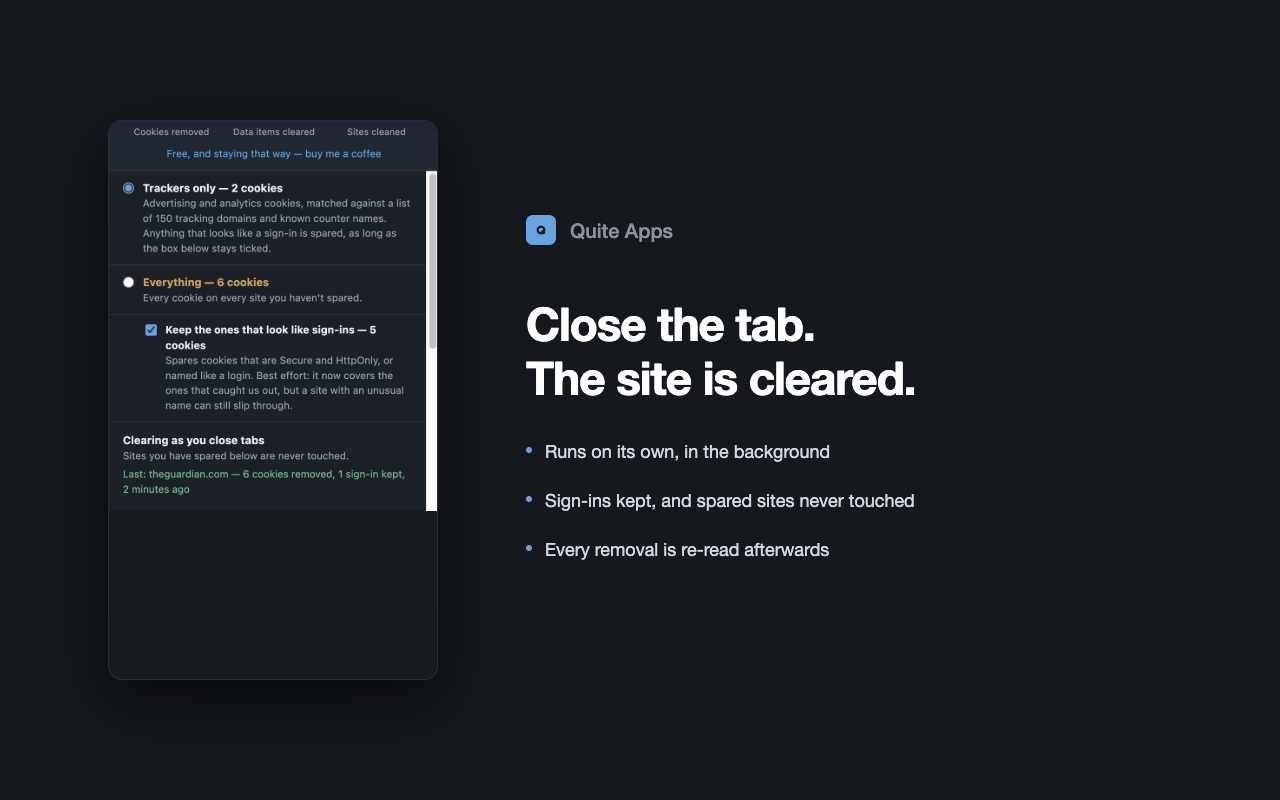
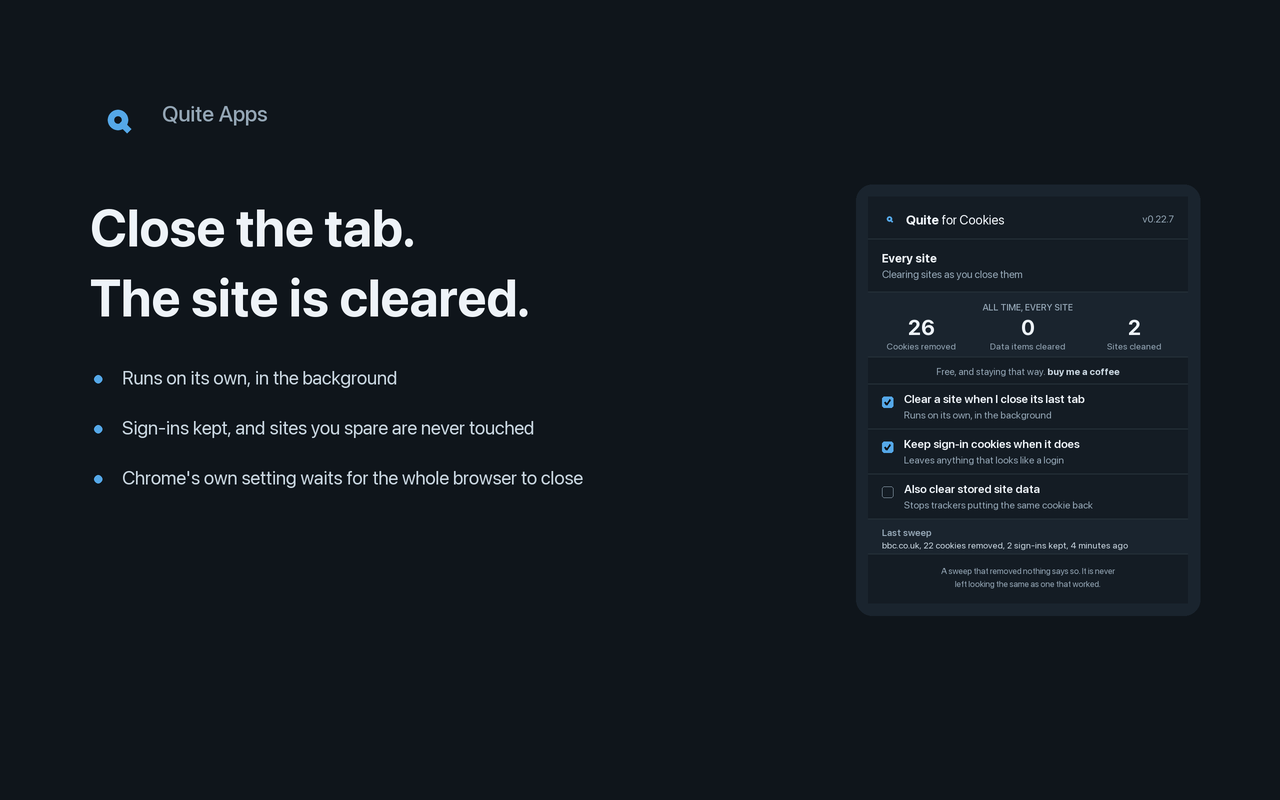
0.22.8: brand header, an arm line, and tags that survive a long domain
Faults found by looking at the popup rather than reading the code.

No brand header. The other three extensions open with an icon, the
product name and the version; this one opened straight into the site
name and never said which product it was. There was also no VERSION
literal anywhere, so "confirm the running build" was impossible and the
version checks in preflight were passing vacuously on nothing.

The tags were inside the truncating span. .gname is nowrap with
overflow:hidden, and "third party" and "N sign-in" sat inside it, so a
long domain pushed them out and sliced them mid-word
("chromewebstore.google.com third party 2 sign-"). Those are the labels
you read before deciding to delete something. The domain now ellipsises
and the tags always survive.

"N sign-in" overstated what the rule knows. looksLikeSignIn() spares a
cookie whose name looks like a session OR that is simply Secure and
HttpOnly, which on Google domains is nearly all of them, tracking
included. The badge reads "N kept" now, with a tooltip saying why.

The section headers ("Cookies", "Site data") scrolled away with the
list, so on a news site they vanished immediately and you were reading a
list of domains with nothing on screen saying what the list was. Pinned.

The master clearing switch was never painted on the "Every site" path,
so opening the popup straight onto that tab left the control that
decides whether this extension deletes anything hidden. It only appeared
[…]

diff --git a/popup.js b/popup.js
@@ -17,6 +17,12 @@
  * return value of the delete call. Count again afterwards and report the count.
  */
 
+// The build, as a literal. NOT chrome.runtime.getManifest(): that returns the
+// version of the LOADED extension rather than of the code running, so after a
+// reload an old popup would report the new version. package.sh refuses to build
+// if this disagrees with manifest.json.
+const VERSION = "0.22.8";
+
 const $ = (s) => document.querySelector(s);
 const pattern = (domain) => `*://*.${domain}/*`;
 
@@ -371,11 +377,19 @@ function paintGroups() {
     .map((g) => {
       const tags =
         (g.firstParty ? "" : '<span class="tag">third party</span>') +
-        (g.signIn ? `<span class="tag warn">${plural(g.signIn, "sign-in", "sign-in")}</span>` : "");
+        // "kept", not "sign-in". looksLikeSignIn() spares a cookie if its name
+        // reads like a session OR it is simply Secure+HttpOnly — which nearly
+        // every Google cookie is, tracking ones included. Labelling those
+        // "sign-in" states as fact something the heuristic only suspects, and
+        // it is deliberately generous because signing someone out is the
+        // expensive error. The tooltip says so rather than the badge implying it.
+        (g.signIn
+          ? `<span class="tag warn" title="Kept by default: the name looks like a session, or the cookie is Secure and HttpOnly. That is deliberately cautious — it spares some cookies that were never logins, because signing you out is the worse mistake. Tick the box to remove them anyway.">${g.signIn} kept</span>`
+          : "");
       return `<label class="group">
         <input type="checkbox" data-domain="${esc(g.domain)}" ${state.deselected.has(g.domain) ? "" : "checked"} />
         <span class="gmain">
-          <span class="gname">${esc(g.domain)}${tags}</span>
+          <span class="gtop"><span class="gname">${esc(g.domain)}</span><span class="gtags">${tags}</span></span>
           <span class="gmeta">${plural(g.cookies.length, "cookie", "cookies")} · ${kb(g.bytes)}</span>
         </span>
       </label>`;
@@ -412,6 +426,10 @@ function paintGroups() {
   const signOut = selected.filter((g) => g.signIn).length;
 
   const spared = state.groups.filter((g) => g.signIn && state.deselected.has(g.domain)).length;
+  // attacker-controlled value here is escaped — esc(state.site) x4, others via
+  // esc(d), rows via esc(g.domain), storageRow via esc(state.origin). tags and
+  // bits are literals plus plural() over string literals.
+  // eslint-disable-next-line no-unsanitized/property -- verified 2026-09-01: every
   $("#main").innerHTML =
     (signOut
       ? (() => {
@@ -451,6 +469,7 @@ function paintGroups() {
     : "Nothing selected";
 
   $("#footer").hidden = false;
+  // eslint-disable-next-line no-unsanitized/property -- verified 2026-09-01: label is built at 447-451 from plural() over string literals; the other interpolation is a boolean ternary emitting `disabled`. Every attacker-controlled value (cookie domain, site name) goes through esc().
   $("#footer").innerHTML = `<button id="go" ${total || clearingStorage ? "" : "disabled"}>${label}</button>`;
 
   $("#main").querySelectorAll("input[data-domain]").forEach((box) =>
@@ -516,6 +535,7 @@ function paintScope() {
   const el = $("#scope");
   el.hidden = false;
   // "Allowed for bbc.co.uk" never said allowed to do what. Name the capability.
+  // eslint-disable-next-line no-unsanitized/property -- verified 2026-09-01: the only interpolation is esc(state.site); the other branch is a literal. Every attacker-controlled value (cookie domain, site name) goes through esc().
   el.innerHTML = state.allSites
     ? `<span>Can read cookies on <b>every site</b></span><button id="scopeToggle">Limit to one site</button>`
     : `<span>Can read cookies on <b>${esc(state.site)}</b> only</span><button id="scopeToggle">Allow every site</button>`;
@@ -572,11 +592,13 @@ async function paintScan() {
   paintScope();
   paintStats();
   paintMaster();
+  paintArm();
   // The default mode used to render neither lastAuto nor autoLog, so a user
   // who never switches to "Every site" had no way to see what the background
   // sweep had been doing — or failing to do.
   try {
     const log = await autoLogBlock(3);
+    // eslint-disable-next-line no-unsanitized/method -- verified 2026-09-01: log comes from autoLogBlock(), which builds HTML from literals, a locale time string, and esc(e.line). Every attacker-controlled value (cookie domain, site name) goes through esc().
     if (log) $("#main").insertAdjacentHTML("beforeend", log);
   } catch {
     /* reporting only */
@@ -780,7 +802,7 @@ async function paintAll() {
       return `<label class="group">
         <input type="checkbox" data-site="${esc(g.site)}" ${spared ? "" : "checked"} />
         <span class="gmain">
-          <span class="gname">${esc(g.site)}${g.signIn ? `<span class="tag warn">${g.signIn} sign-in</span>` : ""}</span>
+          <span class="gtop"><span class="gname">${esc(g.site)}</span><span class="gtags">${g.signIn ? `<span class="tag warn">${g.signIn} sign-in</span>` : ""}</span></span>
           <span class="gmeta">${
             // A site can now appear here with no cookies at all — see scanAll().
             // It is listed because auto-clear can still wipe its site data, and
@@ -794,6 +816,7 @@ async function paintAll() {
     })
     .join("");
 
+  // eslint-disable-next-line no-unsanitized/property -- verified 2026-09-01: interpolations are counts, plural() over literals, autoRow/logBlock (both escaped), and rows (every site name via esc(g.site) at 781). Every attacker-controlled value (cookie domain, site name) goes through esc().
   $("#main").innerHTML =
     `<label class="choice">
        <input type="radio" name="sweep" value="trackers" ${prefs.mode === "trackers" ? "checked" : ""} />
@@ -823,6 +846,7 @@ async function paintAll() {
      }</p><button id="expand" class="ghost">Review them one by one</button></div>`}`;
 
   $("#footer").hidden = false;
+  // eslint-disable-next-line no-unsanitized/property -- verified 2026-09-01: both interpolations are plural() over string literals. Every attacker-controlled value (cookie domain, site name) goes through esc().
   $("#footer").innerHTML = `<button id="goAll" ${targets.length ? "" : "disabled"}>Remove ${plural(targets.length, "cookie", "cookies")}</button>`;
 
   $("#expand")?.addEventListener("click", () => { state.expanded = true; paintAll(); });
@@ -925,6 +949,7 @@ async function runGlobalRemoval(prefs) {
     .map((c) => PSL.registrable(c.domain.replace(/^\./, "")) || c.domain))];
   paintStats(await addStats(gone, 0, touched));
 
+  // eslint-disable-next-line no-unsanitized/property -- verified 2026-09-01: all five interpolations are plural() over string literals. Every attacker-controlled value (cookie domain, site name) goes through esc().
   $("#main").innerHTML = `<div class="pad">
     <p class="result"><b>${plural(gone, "cookie", "cookies")} removed</b> across the browser.</p>
     ${stuck ? `<p class="result kept">${plural(stuck, "cookie", "cookies")} could not be removed.</p>` : ""}
@@ -943,6 +968,7 @@ async function renderNeedAll() {
   // This is precisely the state in which the background sweep gives up, so
   // this is precisely where its log has to be visible.
   const log = await autoLogBlock();
+  // eslint-disable-next-line no-unsanitized/property -- verified 2026-09-01: log comes from autoLogBlock(); the rest of the template is literal. Every attacker-controlled value (cookie domain, site name) goes through esc().
   $("#main").innerHTML = log + `<div class="pad">
     <p class="lead">Cleaning every site means reading every site's cookies, so this one
     needs the browser-wide permission. It is asked for once and you can take it back
@@ -950,6 +976,8 @@ async function renderNeedAll() {
     <p class="lead">Nothing is read or removed until you allow it.</p>
   </div>`;
   $("#footer").hidden = false;
+  paintMaster();
+  paintArm();
   $("#footer").innerHTML = `<button id="grantAll2">Allow reading every site</button>`;
   $("#grantAll2").addEventListener("click", async () => {
     try { await chrome.permissions.request({ origins: [ALL_SITES] }); } catch {}
@@ -965,6 +993,69 @@ async function startAll() {
   state.allGroups = await scanAll();
   await paintAll();
   paintStats();
+  paintMaster();
+  paintArm();
+}
+
+/**
+ * States which arm this reading is, and whether it can be believed.
+ *
+ * chrome.cookies.getAll returns an EMPTY ARRAY and no error when the permission
+ * is not held, so "no cookies stored" and "not allowed to look" are identical
+ * on screen unless something says which happened. Every reading carries its own
+ * validity: three states, never two.
+ *
+ * It also names the build. Without it there was no way to confirm which code
+ * was running — the first gate in CLAUDE.md — and the version checks in
+ * preflight.py were passing vacuously because there was no literal to check.
+ */
+function paintBrand() {
+  const el = $("#ver");
+  if (el) el.textContent = "v" + VERSION;
+}
+
+function paintArm() {
+  const el = $("#arm");
+  if (!el) return;
+  el.hidden = false;
+  const scope = state.mode === "all" ? "every site" : (state.site || "this tab");
+
+  // THREE STATES, and they must stay three.
+  //   true   the permission is held, so an empty list really means empty
+  //   false  it is not held: chrome.cookies.getAll returns an empty array and
+  //          NO error, so "nothing stored" and "not allowed to look" are
+  //          indistinguishable on screen unless this says which
+  //   null   not determined yet — NOT the same as denied
+  //
+  // The first version of this collapsed null into false, so a permission that
+  // had simply not been checked yet was reported as "NO ACCESS". That is the
+  // exact two-state collapse the function exists to prevent, written into the
+  // function itself.
+  const granted = state.mode === "all" ? state.allSites : state.siteGranted;
+  const scanned = granted === undefined || granted === null ? null : !!granted;
+
+  // Built from DOM nodes and textContent rather than innerHTML: not building
+  // HTML at all beats proving the escaping is right, and leaves nothing for a
+  // future edit to get wrong.
+  el.replaceChildren();
+  const line1 = document.createElement("div");
+  if (scanned === null) {
+    line1.className = "warn";
+    line1.textContent = "ARM: NO READING \u2014 access has not been checked yet";
+  } else if (scanned === false) {
+    line1.className = "warn";
+    line1.textContent =
+      "ARM: NO ACCESS \u2014 an empty list here means \u201cnot allowed to look\u201d, " +
+      "not \u201cnothing stored\u201d";
+  } else {
+    line1.textContent =
+      "ARM: READING WITH ACCESS \u2014 nothing is deleted until you press the button";
+  }
+  const line2 = document.createElement("div");
+  const b = document.createElement("b");
+  b.textContent = "v" + VERSION;
+  line2.append(b, document.createTextNode(" \u00b7 scope: " + scope));
+  el.append(line1, line2);
 }
 
 function paintTabs() {
@@ -1065,6 +1156,7 @@ async function runRemoval() {
       : Math.max(0, storageBefore - storageLeft);
   paintStats(await addStats(gone, itemsCleared, gone || itemsCleared ? [state.site] : []));
 
+  // eslint-disable-next-line no-unsanitized/property -- verified 2026-09-01: interpolations are counts and plural() over string literals. Every attacker-controlled value (cookie domain, site name) goes through esc().
   $("#main").innerHTML = `<div class="pad">
     <p class="result"><b>${plural(gone, "cookie", "cookies")} removed</b> of ${selected.size} selected.</p>
     ${stuck ? `<p class="result kept">${plural(stuck, "cookie", "cookies")} ${stuck === 1 ? "is" : "are"} present again with the same value — either the removal did not take, or the page put it back from its own copy. This repo has measured the second: on one news site the Chartbeat and Permutive ids returned byte-identical from local storage.</p>` : ""}
@@ -1116,6 +1208,7 @@ function renderIntro() {
   $("#scope").hidden = true;
   paintStats();
   paintMaster();
+  paintArm();
   $("#footer").hidden = false;
   $("#footer").innerHTML =
     `<button id="grant">Show what ${esc(state.site)} stored</button>` +
@@ -1173,6 +1266,10 @@ async function start() {
   // report a clean site while being blind to every cookie on it.
   state.allSites = await chrome.permissions.contains({ origins: [ALL_SITES] });
   const perSite = state.allSites || (await chrome.permissions.contains({ origins: [pattern(state.site)] }));
+  // Recorded so the arm line can say which of the two an empty list means. It
+  // was previously read from a field that did not exist, which meant the line
+  // always fell through to its optimistic branch.
+  state.siteGranted = perSite;
   if (!perSite) return renderIntro();
 
   $("#sub").textContent = "reading…";
@@ -1181,4 +1278,5 @@ async function start() {
   await paintScan();
 }
 
+paintBrand();
 start();

diff --git a/popup.css b/popup.css
@@ -46,15 +46,44 @@ button + button { margin-top: 6px; }
 .group:last-child { border-bottom: 0; }
 .group input { margin: 3px 0 0; accent-color: var(--brand); }
 .gmain { flex: 1; min-width: 0; }
+/* Brand lockup, matching Quite for YouTube / Facebook / Instagram. Without it
+   the popup opened on a bare domain name and never said which product it was,
+   and the build was only visible in the diagnostics line at the very bottom. */
+.brand { display: flex; align-items: center; gap: 8px; padding: 12px 16px 0; }
+.brand img { width: 22px; height: 22px; border-radius: 6px; }
+.brand h1 { margin: 0; font-size: 15px; letter-spacing: -0.01em; font-weight: 650; }
+.brand h1 span { color: var(--muted); font-weight: 450; }
+.ver { margin-left: auto; font-size: 10px; color: var(--muted);
+  font-family: ui-monospace, Menlo, monospace; }
+
+/* The domain truncates; the TAGS must not. "third party" and "N sign-in" are
+   the labels you read before deciding to delete something, and they used to sit
+   inside .gname — so a long domain pushed them out of the nowrap box and they
+   were sliced mid-word ("chromewebstore.google.com third party 2 sign-").
+   Splitting them means the domain ellipsises and the labels always survive. */
+.gtop { display: flex; align-items: baseline; min-width: 0; }
 .gname { font-family: ui-monospace, Menlo, monospace; font-size: 12px;
-  overflow: hidden; text-overflow: ellipsis; white-space: nowrap; }
+  overflow: hidden; text-overflow: ellipsis; white-space: nowrap;
+  flex: 1 1 auto; min-width: 0; }
+.gtags { flex: 0 0 auto; white-space: nowrap; }
+
+/* Which arm this reading is, and whether it can be believed. */
+.arm { margin: 10px 16px 12px; padding-top: 9px; border-top: 1px solid var(--line);
+  font: 11.5px/1.5 ui-monospace, Menlo, monospace; color: var(--muted); }
+.arm b { color: var(--fg); font-weight: 600; }
+.arm .warn { color: var(--warn-fg); }
 .gmeta { color: var(--muted); font-size: 11.5px; }
 .tag { display: inline-block; padding: 1px 6px; border-radius: 5px; font-size: 10.5px;
   font-weight: 650; background: var(--sunk); color: var(--muted); margin-left: 6px; vertical-align: 1px; }
 .tag.warn { background: var(--warn-bg); color: var(--warn-fg); }
 
 .notice { margin: 0; padding: 10px 16px; background: var(--warn-bg); color: var(--warn-fg); font-size: 12px; }
-.section { padding: 9px 16px 4px; font-size: 11px; text-transform: uppercase;
+/* Pinned. `main` scrolls, and these headers sat inside it — so "Cookies" and
+   "Site data" scrolled out of view the moment the list was long enough to
+   scroll, which on a news site is immediately. You were then reading a list of
+   domains with nothing on screen saying what the list was. */
+.section { position: sticky; top: 0; z-index: 2;
+  padding: 9px 16px 4px; font-size: 11px; text-transform: uppercase;
   letter-spacing: .05em; color: var(--muted); background: var(--sunk); }
 .result { font-size: 12px; color: var(--muted); margin: 0 0 10px; }
 .result b { color: var(--fg); }

diff --git a/popup.html b/popup.html
@@ -1,6 +1,11 @@
 <meta charset="utf-8" />
 <title>Quite for Cookies</title>
 <link rel="stylesheet" href="popup.css" />
+<div class="brand">
+  <img src="icons/icon48.png" alt="" />
+  <h1>Quite <span>for Cookies</span></h1>
+  <span class="ver" id="ver"></span>
+</div>
 <header>
   <div class="host" id="host">—</div>
   <div class="sub" id="sub">reading this tab…</div>
@@ -23,6 +28,7 @@
 <main id="main"></main>
 <div id="scope" class="scope" hidden></div>
 <footer id="footer" hidden></footer>
+<div class="arm" id="arm" hidden></div>
 <script src="psl-data.js"></script>
 <script src="psl.js"></script>
 <script src="signin.js"></script>

diff --git a/store/listing.md b/store/listing.md
@@ -4,7 +4,7 @@ Publisher: **Quite Apps**  ·  Contact: **support@quiteapps.co.uk**
 Store:  **https://chromewebstore.google.com/detail/quite-for-cookies/iagkmeadnfkmgocminiglpibkcnibnch**
 Source: **github.com/KingDogma23/quite-for-cookies**
 Package: `dist/cookie-cleaner-<version>-store.zip` (built with `./package.sh --store`)
-Current version: **0.22.7**
+Current version: **0.22.8**
 
 > The zip is named from the working directory, which is still `cookie-cleaner`
 > while the repository is `quite-for-cookies`. Harmless, but do not let it read
@@ -170,7 +170,7 @@ it also shows the corrected tracker-mode wording and the sign-in checkbox
 enabled in that mode. Regenerate from store/screenshot-02-source.html at exactly
 1280x800, device scale 1.
 
-## Testing notes for review (0.22.7)
+## Testing notes for review (0.22.8)
 
 The automatic clear was verified on 38 sites using a planted probe cookie that
 the site cannot regenerate. It was gone on all 38. Two negative controls hold: a
